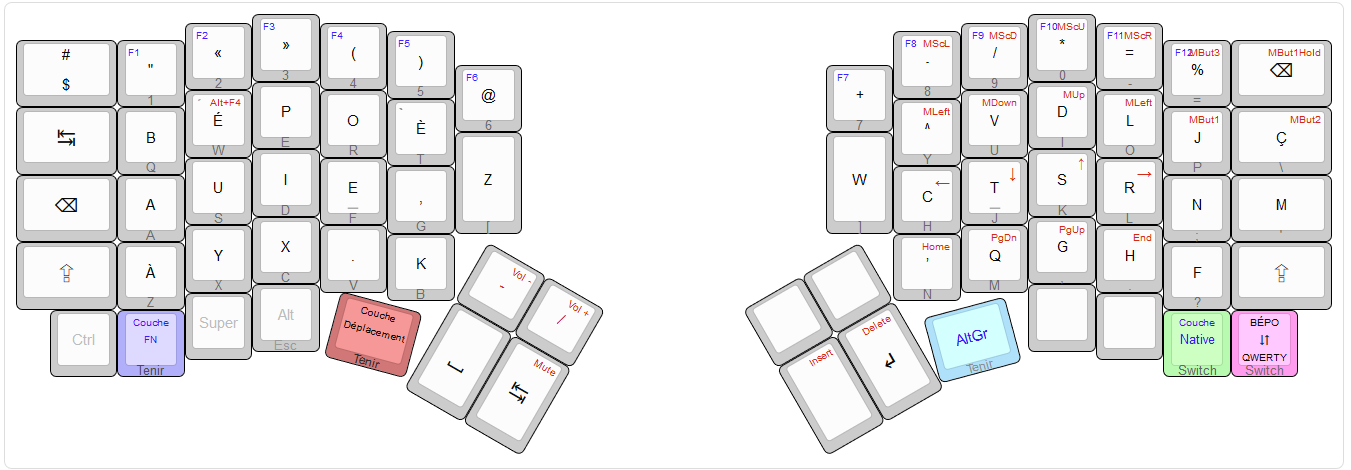
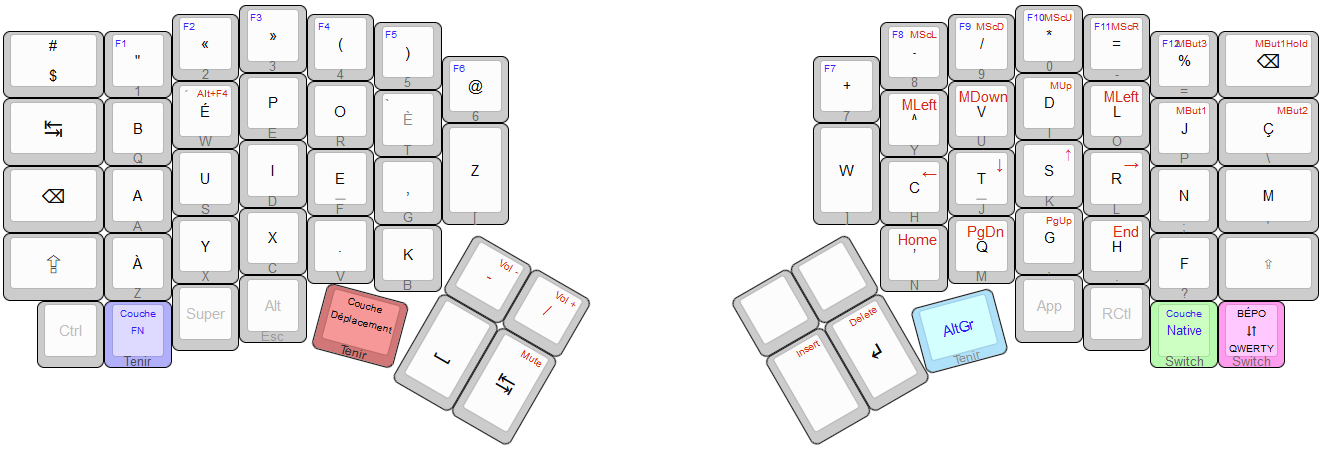
Ajout touches RCTL,App

Changed region(s): [[0.0, 0.0, 1.0, 1.0]]

diff --git a/keymap.c b/keymap.c
@@ -847,7 +847,7 @@ const uint16_t PROGMEM keymaps[][MATRIX_ROWS][MATRIX_COLS] = {
   //├────────┼────────┼────────┼────────┼────────┼────────┼────────┼────────┐       ┌────────┼────────┼────────┼────────┼────────┼────────┼────────┼────────┤
       KC_LSFT, BP_AGRV, BP_Y,     BP_X,   BP_DOT,   BP_K,    BP_8,    BP_9,           KC_NO,  KC_NO,    BP_APOS, BP_Q,    BP_G,    BP_H,    BP_F,   KC_RSFT,
   //├────────┼────────┼────────┼────────┼────┬───┴────┬───┼────────┼────────┤       ├────────┼────────┼───┬────┴───┬────┼────────┼────────┼────────┼────────┤
-      KC_LCTL, MO(_FN),KC_LGUI, LALT_T(KC_ESC),MO(_MOVE),   BP_SPC,  KC_TAB,          KC_RALT, KC_ENT,      KC_RALT,      KC_Z,    KC_NO, TG(_NATIVE),TO(_QWERTY)
+      KC_LCTL, MO(_FN),KC_LGUI, LALT_T(KC_ESC),MO(_MOVE),   BP_SPC,  KC_TAB,          KC_RALT, KC_ENT,      KC_RALT,      KC_APP, KC_RCTL, TG(_NATIVE),TO(_QWERTY)
   //└────────┴────────┴────────┴────────┘    └────────┘   └────────┴────────┘       └────────┴────────┘   └────────┘    └────────┴────────┴────────┴────────┘
 			 ),
 	// layer QWERTY pour compatibilité.
@@ -861,7 +861,7 @@ const uint16_t PROGMEM keymaps[][MATRIX_ROWS][MATRIX_COLS] = {
   //├────────┼────────┼────────┼────────┼────────┼────────┼────────┼────────┐       ┌────────┼────────┼────────┼────────┼────────┼────────┼────────┼────────┤
       KC_LSFT,  KC_Z,    KC_X,    KC_C,    KC_V,    KC_B,   KC_NO,   KC_NO,           KC_NO,   KC_NO,    KC_N,   KC_M,   KC_COMM,  KC_DOT,  KC_SLSH, KC_RSFT,
   //├────────┼────────┼────────┼────────┼────┬───┴────┬───┼────────┼────────┤       ├────────┼────────┼───┬────┴───┬────┼────────┼────────┼────────┼────────┤   
-      KC_LCTL, MO(_FN), KC_LGUI,LALT_T(KC_ESC),TT(_MOVE),   KC_SPC,  KC_TAB,          KC_RALT, KC_ENT,     KC_RALT,       KC_NO,   KC_NO,   KC_NO,  TO(_BEPO)
+      KC_LCTL, MO(_FN), KC_LGUI,LALT_T(KC_ESC),TT(_MOVE),   KC_SPC,  KC_TAB,          KC_RALT, KC_ENT,     KC_RALT,       KC_APP, KC_RCTL,  KC_NO,  TO(_BEPO)
   //└────────┴────────┴────────┴────────┘    └────────┘   └────────┴────────┘       └────────┴────────┘   └────────┘    └────────┴────────┴────────┴────────┘
 			   ), 
 	// touches de fonctions (F keys dans le haut, numpad côté droit du clavier)

diff --git a/readme.md b/readme.md
@@ -3,8 +3,9 @@
 ![Résumé des différentes fonctions du Redox
 Bépo](./images/keyboard-layout-main.png) 
 
-Résumé en un clin d'oeil des autres couches - voir images suivantes
-pour les détails de chaque layer
+Résumé en un clin d'oeil des fonctions courantes et du layer
+principal - voir images dans les sections suivantes pour les détails
+de chaque layer
 
 
 ## Détails
@@ -118,6 +119,10 @@ plusieurs OS. De plus, notez ces détails:
 * ~~Bug (fixed, CapsLock remapped): Les combinaisons `Shift+FKeys` (ex:
   `Shift+F1`) ne marche pas actuellement, car Caps Lock est attribué à
   Fn+Shift.~~
+* Seulement les touches les plus communes, accessibles depuis le
+  clavier Canadien Français, ont été transcris sur ce keymap. Ce n'est
+  pas une solution "complète" ayant absolument tous les caractères
+  inimaginables et obscures de Bépo :)
 * Dû à la dispositon physique de clavier Redox, il me manquait en fait
   les touches à droite pour les lettres `z` et `w` sur la première
   rangée. Je les ai donc mis sur les touches doubles dans le milieu du
